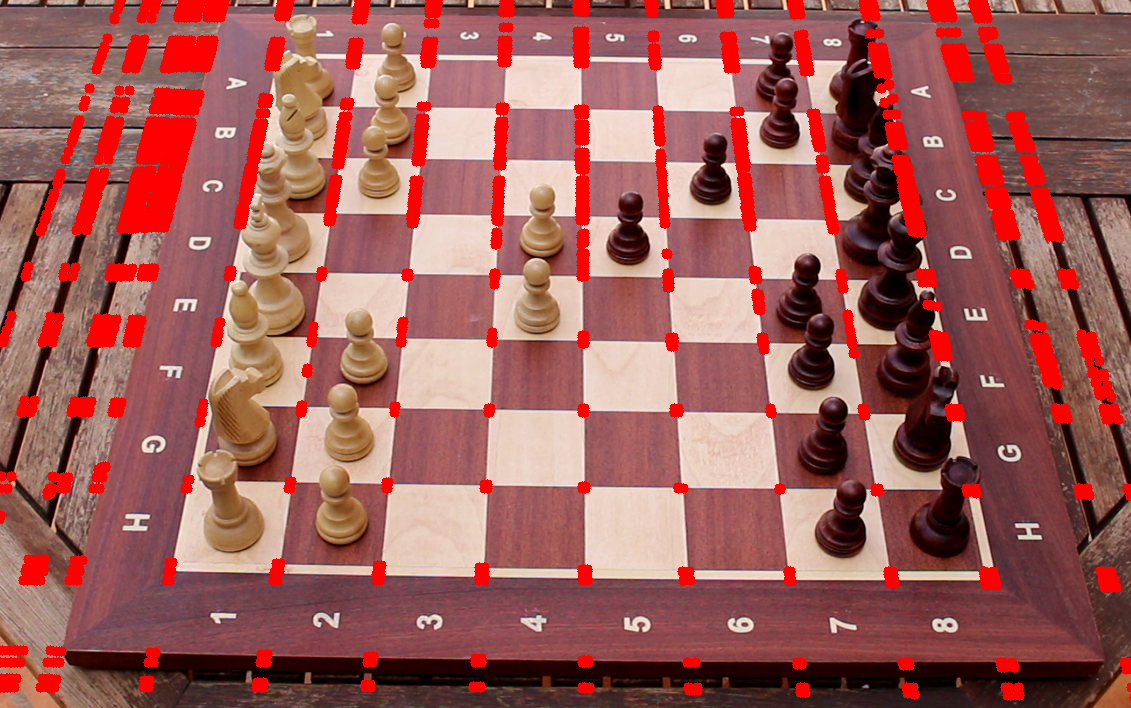
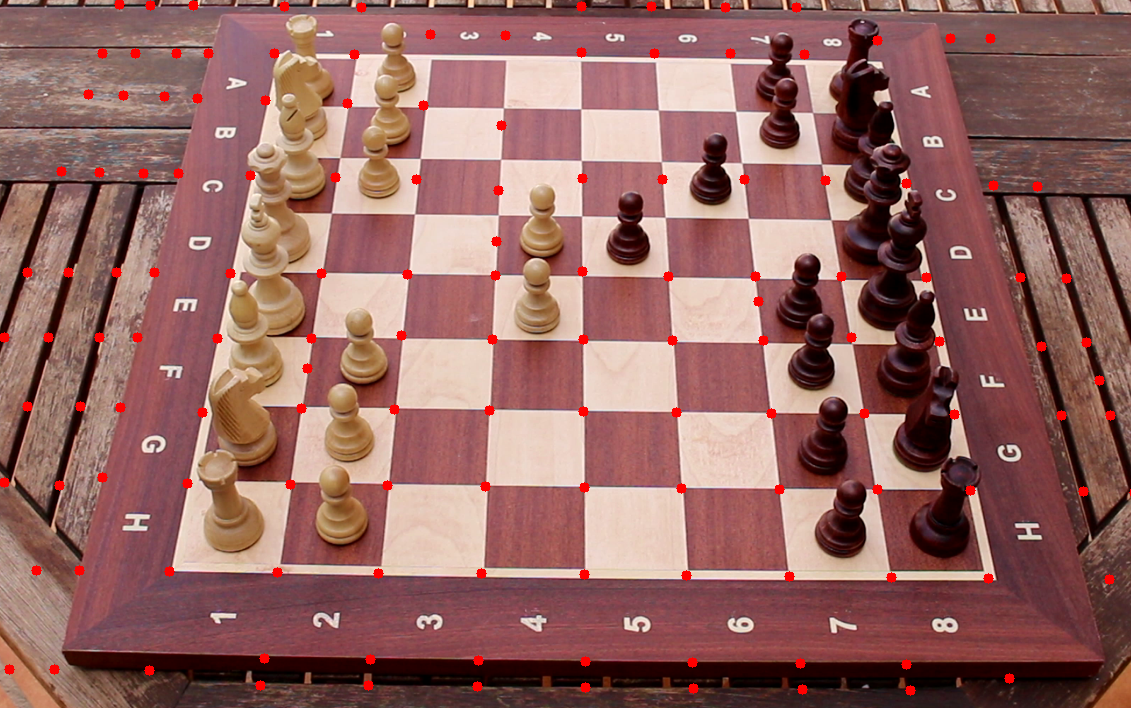
🔧Algoritmo refinado

diff --git a/edge_detection.py b/edge_detection.py
@@ -1,56 +1,139 @@
+from collections import defaultdict
 import math
+import operator
 import os
 from statistics import mean
 import cv2
 import numpy as np
+from scipy import cluster, spatial
+
+
+def show_image(img, name="Debug"):
+    cv2.imshow(name, img)
+    cv2.waitKey(0)
+    cv2.destroyAllWindows()
+
+# Canny edge detection
+def canny_edge(img, sigma=0.33):
+    v = np.median(img)
+    lower = int(max(0, (1.0 - sigma) * v))
+    upper = int(min(255, (1.0 + sigma) * v))
+    edges = cv2.Canny(img, lower, upper)
+    return edges
+
+# Hough Transform
+def hough_line(edges, min_line_length=100, max_line_gap=15):
+    lines = cv2.HoughLines(edges, 1, np.pi / 180, 125, min_line_length, max_line_gap)
+    lines = np.reshape(lines, (-1, 2))
+    return lines
+
+# Separate line into horizontal and vertical
+def h_v_lines(lines):
+    h_lines, v_lines = [], []
+    for rho, theta in lines:
+        if theta < np.pi / 4 or theta > np.pi - np.pi / 4:
+            v_lines.append([rho, theta])
+        else:
+            h_lines.append([rho, theta])
+    return h_lines, v_lines
+
+# Find the intersections of the lines
+def line_intersections(h_lines, v_lines):
+    points = []
+    for rho1, theta1 in h_lines:
+        for rho2, theta2 in v_lines:
+            A = np.array([
+                [np.cos(theta1), np.sin(theta1)],
+                [np.cos(theta2), np.sin(theta2)]
+            ])
+            b = np.array([[rho1], [rho2]])
+            point = np.linalg.solve(A, b)
+            point = int(np.round(point[0])), int(np.round(point[1]))
+            points.append(point)
+    return np.array(points)
+
+# Hierarchical cluster (by euclidean distance) intersection points
+def cluster_points(points, max_dist=20):
+    Y = spatial.distance.pdist(points)
+    Z = cluster.hierarchy.single(Y)
+    T = cluster.hierarchy.fcluster(Z, max_dist, 'distance')
+    clusters = defaultdict(list)
+    for i in range(len(T)):
+        clusters[T[i]].append(points[i])
+    clusters = clusters.values()
+    clusters = map(lambda arr: (np.mean(np.array(arr)[:, 0]), np.mean(np.array(arr)[:, 1])), clusters)
+
+    result = []
+    for point in clusters:
+        result.append([point[0], point[1]])
+    return result
+
+# Debug
+debug = False
 
 # Load the image
-name = "prueba"
+name = "prueba_sin_fondo"
 img = cv2.imread("edge-detection/assets/" + name + ".png")
 
 # Transform the image to grayscale
 gray = cv2.cvtColor(img, cv2.COLOR_BGR2GRAY)
 
+if debug:
+    show_image(gray, "Gray")
+
 # Apply Gaussian blur
 blur = cv2.GaussianBlur(gray, (5, 5), 0)
+if debug:
+    show_image(blur, "Blur")
 
 # Apply Canny edge detection
-edges = cv2.Canny(blur, 50, 150)
+edges = canny_edge(blur)
+if debug:
+    show_image(edges, "Edges")
 
 # Hough Transform
-lines = cv2.HoughLines(edges, 1, np.pi / 180, 125, 100, 10)
-lines = np.reshape(lines, (-1, 2))
+lines = hough_line(edges)
 
-# Separate the lines into vertical and horizontal lines
-h_lines, v_lines = [], []
-for rho, theta in lines:
-    if theta < np.pi / 4 or theta > np.pi - np.pi / 4:
-        v_lines.append([rho, theta])
-    else:
-        h_lines.append([rho, theta])
+# Separate the lines into vertical and horizontal lines        
+h_lines, v_lines = h_v_lines(lines)
 
-# Find and cluster the intersecting
-points = []
-for r_h, t_h in h_lines:
-    for r_v, t_v in v_lines:
-        a = np.array([[np.cos(t_h), np.sin(t_h)], [np.cos(t_v), np.sin(t_v)]])
-        b = np.array([r_h, r_v])
-        inter_point = np.linalg.solve(a, b)
-        points.append(inter_point)
+if debug:
+    img_houg = img.copy()
+    if len(h_lines) < 9 or len(v_lines) < 9:
+        print("There are not enough horizontal and vertical lines in this image. Try it anyway!")
+    # Draw the lines on the image
+    for rho, theta in h_lines:
+        a = np.cos(theta)
+        b = np.sin(theta)
+        x0 = a * rho
+        y0 = b * rho
+        x1 = int(x0 + 1000 * (-b))
+        y1 = int(y0 + 1000 * (a))
+        x2 = int(x0 - 1000 * (-b))
+        y2 = int(y0 - 1000 * (a))
+        cv2.line(img_houg, (x1, y1), (x2, y2), (0, 255, 0), 2)
+    for rho, theta in v_lines:
+        a = np.cos(theta)
+        b = np.sin(theta)
+        x0 = a * rho
+        y0 = b * rho
+        x1 = int(x0 + 1000 * (-b))
+        y1 = int(y0 + 1000 * (a))
+        x2 = int(x0 - 1000 * (-b))
+        y2 = int(y0 - 1000 * (a))
+        cv2.line(img_houg, (x1, y1), (x2, y2), (0, 0, 255), 2)
+    show_image(img_houg, "Hough Transform")
+       
+# Find and cluster the intersecting        
+intersection_points = line_intersections(h_lines, v_lines)
+points = cluster_points(intersection_points)
 
-points_shape = list(np.shape(points))
-points = np.reshape(points, (points_shape[0], points_shape[1]))
-
-# Draw the points
+# Draw the points on the image
 for point in points:
-    x, y = point
-    cv2.circle(img, (int(x), int(y)), 5, (0, 0, 255), -1)
+    cv2.circle(img, (int(point[0]), int(point[1])), 5, (0, 0, 255), -1)
 
-cv2.imshow("Chessboard", img)
-
-# Wait for key press to close the windows
-cv2.waitKey(0)
-cv2.destroyAllWindows()
+# Show the image with the detected edges
+show_image(img, "Result")
 
 # Create results directory if it does not exist
 if not os.path.exists("edge-detection/results"):
